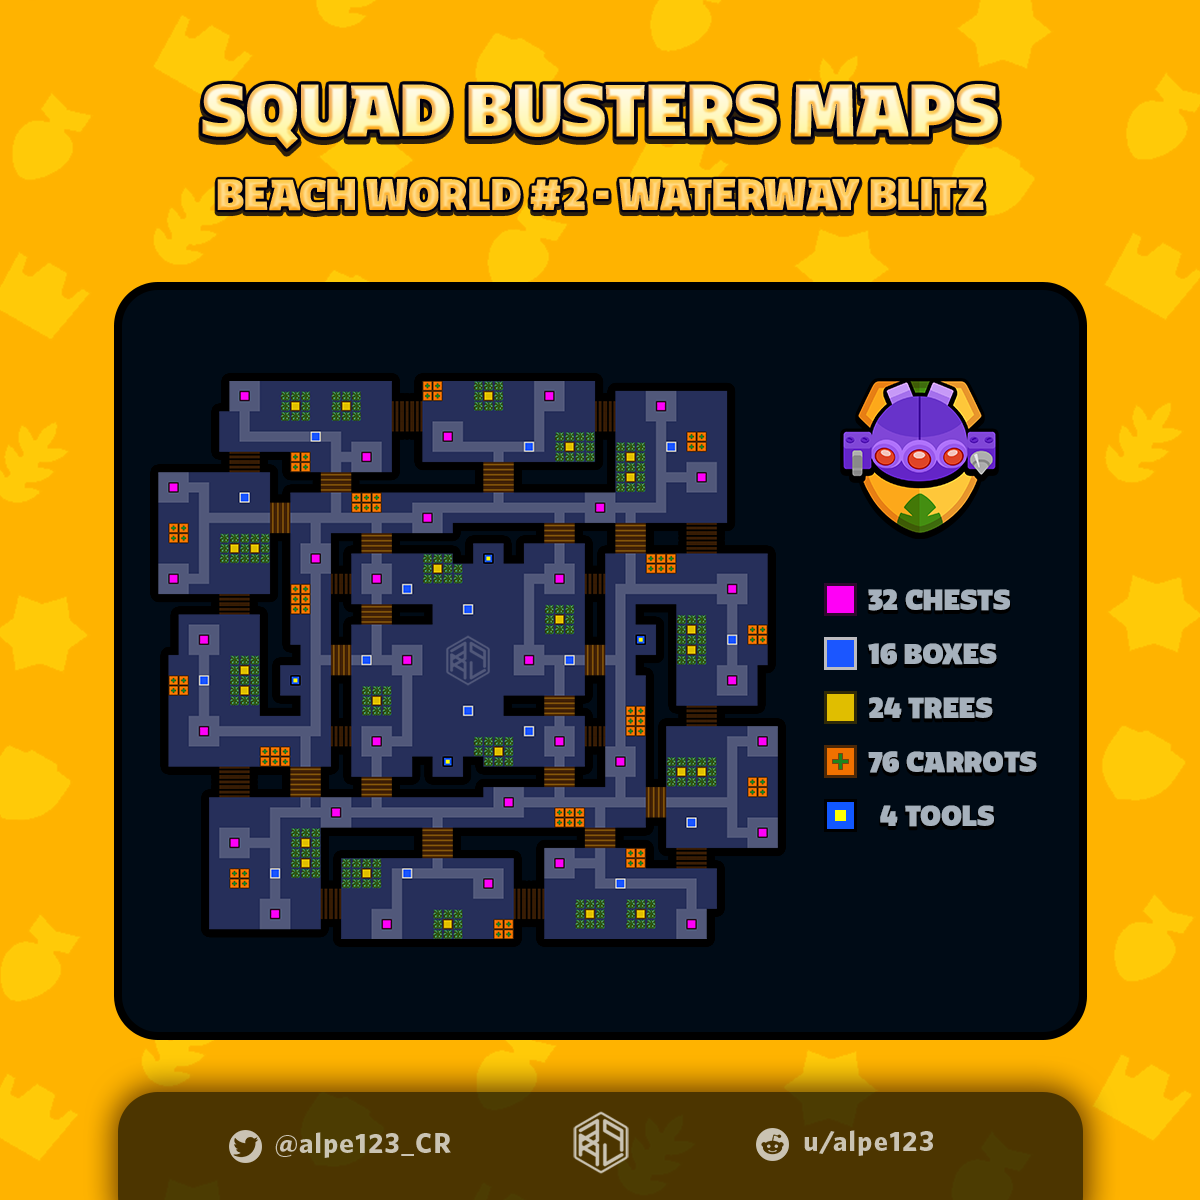
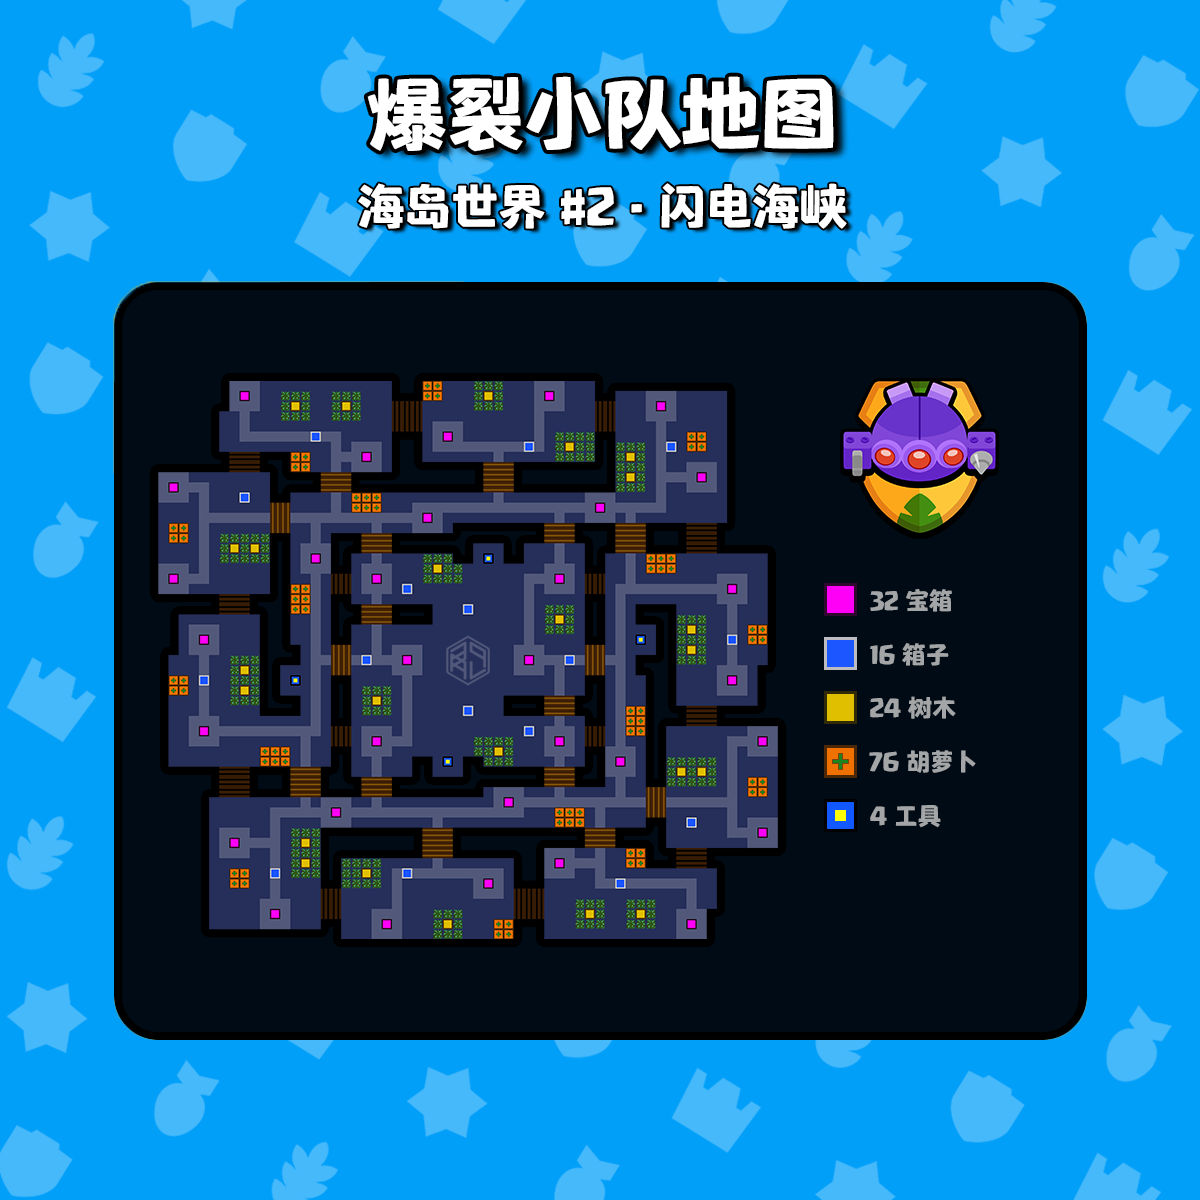
s

diff --git a/docs/sb/troops_cards.md b/docs/sb/troops_cards.md
@@ -1,141 +1,140 @@
 ---
-outline: understand your surroundings
+outline: 理解你的周围环境
 ---
 
-# Squad Busters Troops
+# 爆裂小队角色
 
-This is a list of all the characters available for your squad, sorted by DPS in descending order.
+这是一个按照DPS降序排列的、可供你的小队选择的角色列表。
 
 > [!NOTE]
-> DPS is important, but just a factor in the strength of a unit. This doesn't include very relevant details like range, area damage, abilities...
+> DPS很重要，但只是一个单位强度的因素。这不包括诸如射程、范围伤害、技能等非常相关的细节...
+
+____
+
+以下每个部队卡片以以下方式展示基本属性：
+
+![部队卡片演示](/assets/sb_character_card_demo.png)
+
+- **[HP] 生命值**：部队的健康值。
+- **[DPS] 每秒伤害**：部队在一秒内平均造成的伤害。
+- **[HT] 攻击时间**：每次攻击所需的平均时间。
+- **[DPH] 每次攻击伤害**：每次攻击造成的伤害。
 
 ____
 
 
-Each of the following troop cards display basic stats in the following way:
+## 1. 蛟龙母鸡
 
-![Troop Card Demo](/assets/sb_character_card_demo.png)
+![蛟龙母鸡](/assets/sb_character_card_1_mega-chicken.png)
 
-- **[HP] Hit Points**: health of a troop.
-- **[DPS] Damage Per Second**: average damage dealt by a troop in a single second.
-- **[HT] Hit Time**: average time needed for each attack.
-- **[DPH] Damage Per Hit**: damage dealt with each attack.
+## 2. 虎王普里莫
 
-____
+![虎王普里莫](/assets/sb_character_card_1_mega-el-primo.png)
 
+## 3. 潘妮
 
-## 1. Mega Chicken
+![潘妮](/assets/sb_character_card_1_penny.png)
 
-![Mega Chicken](/assets/sb_character_card_1_mega-chicken.png)
+## 4. 女巫
 
-## 2. Mega El Primo
+![女巫](/assets/sb_character_card_1_witch.png)
 
-![Mega El Primo](/assets/sb_character_card_1_mega-el-primo.png)
+## 5. 柯尔特
 
-## 3. Penny
+![柯尔特](/assets/sb_character_card_1_colt.png)
 
-![Penny](/assets/sb_character_card_1_penny.png)
+## 6. 贝亚
 
-## 4. Witch
+![贝亚](/assets/sb_character_card_1_bea.png)
 
-![Witch](/assets/sb_character_card_1_witch.png)
+## 7. 麦克斯
 
-## 5. Colt
+![麦克斯](/assets/sb_character_card_1_max.png)
 
-![Colt](/assets/sb_character_card_1_colt.png)
+## 8. 母鸡
 
-## 6. Bea
+![母鸡](/assets/sb_character_card_1_chicken.png)
 
-![Bea](/assets/sb_character_card_1_bea.png)
+## 9. 莫提斯
 
-## 7. Max
+![莫提斯](/assets/sb_character_card_1_mortis.png)
 
-![Max](/assets/sb_character_card_1_max.png)
+## 10. 帕姆
 
-## 8. Chicken
+![帕姆](/assets/sb_character_card_1_pam.png)
 
-![Chicken](/assets/sb_character_card_1_chicken.png)
+## 11. 哥布林
 
-## 9. Mortis
+![哥布林](/assets/sb_character_card_1_goblin.png)
 
-![Mortis](/assets/sb_character_card_1_mortis.png)
+## 12. 弓箭女皇
 
-## 10. Pam
+![弓箭女皇](/assets/sb_character_card_1_archer-queen.png)
 
-![Pam](/assets/sb_character_card_1_pam.png)
+## 13. 野猪骑士
 
-## 11. Goblin
+![野猪骑士](/assets/sb_character_card_1_hog-rider.png)
 
-![Goblin](/assets/sb_character_card_1_goblin.png)
+## 14. 雪莉
 
-## 12. Archer Queen
+![雪莉](/assets/sb_character_card_1_shelly.png)
 
-![Archer Queen](/assets/sb_character_card_1_archer-queen.png)
+## 15. 野蛮人之王
 
-## 13. Hog Rider
+![野蛮人之王](/assets/sb_character_card_1_barbarian-king.png)
 
-![Hog Rider](/assets/sb_character_card_1_hog-rider.png)
+## 16. 野蛮人
 
-## 14. Shelly
+![野蛮人](/assets/sb_character_card_1_barbarian.png)
 
-![Shelly](/assets/sb_character_card_1_shelly.png)
+## 17. 阿渤
 
-## 15. Barbarian King
+![阿渤](/assets/sb_character_card_1_bo.png)
 
-![Barbarian King](/assets/sb_character_card_1_barbarian-king.png)
+## 18. 重机枪手
 
-## 16. Barbarian
+![重机枪手](/assets/sb_character_card_1_heavy.png)
 
-![Barbarian](/assets/sb_character_card_1_barbarian.png)
+## 19. 医师
 
-## 17. Bo
+![医师](/assets/sb_character_card_1_medic.png)
 
-![Bo](/assets/sb_character_card_1_bo.png)
+## 20. 坦克驾驶员
 
-## 18. Heavy
+![坦克驾驶员](/assets/sb_character_card_1_tank-girl.png)
 
-![Heavy](/assets/sb_character_card_1_heavy.png)
+## 21. 梅维斯
 
-## 19. Medic
+![梅维斯](/assets/sb_character_card_1_mavis.png)
 
-![Medic](/assets/sb_character_card_1_medic.png)
+## 22. 法师
 
-## 20. Tank Girl
+![法师](/assets/sb_character_card_1_wizard.png)
 
-![Tank Girl](/assets/sb_character_card_1_tank-girl.png)
+## 23. 战斗天使
 
-## 21. Mavis
+![战斗天使](/assets/sb_character_card_1_battle-healer.png)
 
-![Mavis](/assets/sb_character_card_1_mavis.png)
+## 24. 国王
 
-## 22. Wizard
+![国王](/assets/sb_character_card_1_royale-king.png)
 
-![Wizard](/assets/sb_character_card_1_wizard.png)
+## 25. 普利莫
 
-## 23. Battle Healer
+![普利莫](/assets/sb_character_card_1_el-primo.png)
 
-![Battle Healer](/assets/sb_character_card_1_battle-healer.png)
+## 26. 格雷格
 
-## 24. Royale King
+![格雷格](/assets/sb_character_card_1_greg.png)
 
-![Royale King](/assets/sb_character_card_1_royale-king.png)
+## 27. 商人
 
-## 25. El Primo
+![商人](/assets/sb_character_card_1_trader.png)
 
-![El Primo](/assets/sb_character_card_1_el-primo.png)
+## 28. 妮塔
 
-## 26. Greg
+![妮塔](/assets/sb_character_card_1_nita.png)
 
-![Greg](/assets/sb_character_card_1_greg.png)
+## 29. 爆破麦克
 
-## 27. Trader
-
-![Trader](/assets/sb_character_card_1_trader.png)
-
-## 28. Nita
-
-![Nita](/assets/sb_character_card_1_nita.png)
-
-## 29. Dynamike
-
-![Dynamike](/assets/sb_character_card_1_dynamike.png)
+![爆破麦克](/assets/sb_character_card_1_dynamike.png)

diff --git a/docs/sb/troops_fusion_multipliers.md b/docs/sb/troops_fusion_multipliers.md
@@ -57,33 +57,33 @@ outline: 理解你的周围环境
 
 |   | Troop | Fusion HP | Fusion DPS | 
 | -- | -- | -- | -- |
-| <img src="../assets/sb_emote_witch.png"  width="40" height="40" /> | Witch | 3.50x | 2.10x |
-| <img src="../assets/sb_emote_max.png"  width="40" height="40" /> | Max | 3.50x | 2.10x |
-| <img src="../assets/sb_emote_mortis.png"  width="40" height="40" /> | Mortis | 3.50x | 2.10x |
-| <img src="../assets/sb_emote_archer-queen.png"  width="40" height="40" /> | Archer Queen | 3.50x | 2.10x |
-| <img src="../assets/sb_emote_barbarian-king.png"  width="40" height="40" /> | Barbarian King | 3.50x | 2.10x |
-| <img src="../assets/sb_emote_tank-girl.png"  width="40" height="40" /> | Tank Girl | 3.50x | 2.10x |
-| <img src="../assets/sb_emote_battle-healer.png"  width="40" height="40" /> | Battle Healer | 3.50x | 2.10x |
-| <img src="../assets/sb_emote_royale-king.png"  width="40" height="40" /> | Royale King | 3.50x | 2.10x |
-| <img src="../assets/sb_emote_penny.png"  width="40" height="40" /> | Penny | 3.50x | 2.05x |
-| <img src="../assets/sb_emote_bea.png"  width="40" height="40" /> | Bea | 3.50x | 2.05x |
-| <img src="../assets/sb_emote_pam.png"  width="40" height="40" /> | Pam | 3.50x | 2.05x |
-| <img src="../assets/sb_emote_hog-rider.png"  width="40" height="40" /> | Hog Rider | 3.50x | 2.05x |
-| <img src="../assets/sb_emote_medic.png"  width="40" height="40" /> | Medic | 3.50x | 2.05x |
-| <img src="../assets/sb_emote_wizard.png"  width="40" height="40" /> | Wizard | 3.50x | 2.05x |
-| <img src="../assets/sb_emote_nita.png"  width="40" height="40" /> | Nita | 3.50x | 2.05x |
-| <img src="../assets/sb_emote_dynamike.png"  width="40" height="40" /> | Dynamike | 3.50x | 2.05x |
-| <img src="../assets/sb_emote_colt.png"  width="40" height="40" /> | Colt | 3.50x | 2.00x |
-| <img src="../assets/sb_emote_chicken.png"  width="40" height="40" /> | Chicken | 3.50x | 2.00x |
-| <img src="../assets/sb_emote_goblin.png"  width="40" height="40" /> | Goblin | 3.50x | 2.00x |
-| <img src="../assets/sb_emote_shelly.png"  width="40" height="40" /> | Shelly | 3.50x | 2.00x |
-| <img src="../assets/sb_emote_barbarian.png"  width="40" height="40" /> | Barbarian | 3.50x | 2.00x |
-| <img src="../assets/sb_emote_bo.png"  width="40" height="40" /> | Bo | 3.50x | 2.00x |
-| <img src="../assets/sb_emote_heavy.png"  width="40" height="40" /> | Heavy | 3.50x | 2.00x |
-| <img src="../assets/sb_emote_mavis.png"  width="40" height="40" /> | Mavis | 3.50x | 2.00x |
-| <img src="../assets/sb_emote_el-primo.png"  width="40" height="40" /> | El Primo | 3.50x | 2.00x |
-| <img src="../assets/sb_emote_greg.png"  width="40" height="40" /> | Greg | 3.50x | 2.00x |
-| <img src="../assets/sb_emote_trader.png"  width="40" height="40" /> | Trader | 3.50x | 2.00x |
+| <img src="../assets/sb_emote_witch.png"  width="40" height="40" /> | 女巫 | 3.50x | 2.10x |
+| <img src="../assets/sb_emote_max.png"  width="40" height="40" /> | 麦克斯 | 3.50x | 2.10x |
+| <img src="../assets/sb_emote_mortis.png"  width="40" height="40" /> | 莫提斯 | 3.50x | 2.10x |
+| <img src="../assets/sb_emote_archer-queen.png"  width="40" height="40" /> | 弓箭女皇 | 3.50x | 2.10x |
+| <img src="../assets/sb_emote_barbarian-king.png"  width="40" height="40" /> | 野蛮人之王 | 3.50x | 2.10x |
+| <img src="../assets/sb_emote_tank-girl.png"  width="40" height="40" /> | 坦克驾驶员 | 3.50x | 2.10x |
+| <img src="../assets/sb_emote_battle-healer.png"  width="40" height="40" /> | 战斗天使 | 3.50x | 2.10x |
+| <img src="../assets/sb_emote_royale-king.png"  width="40" height="40" /> | 国王 | 3.50x | 2.10x |
+| <img src="../assets/sb_emote_penny.png"  width="40" height="40" /> | 潘妮 | 3.50x | 2.05x |
+| <img src="../assets/sb_emote_bea.png"  width="40" height="40" /> | 贝亚 | 3.50x | 2.05x |
+| <img src="../assets/sb_emote_pam.png"  width="40" height="40" /> | 帕姆 | 3.50x | 2.05x |
+| <img src="../assets/sb_emote_hog-rider.png"  width="40" height="40" /> | 野猪骑士 | 3.50x | 2.05x |
+| <img src="../assets/sb_emote_medic.png"  width="40" height="40" /> | 医师 | 3.50x | 2.05x |
+| <img src="../assets/sb_emote_wizard.png"  width="40" height="40" /> | 法师 | 3.50x | 2.05x |
+| <img src="../assets/sb_emote_nita.png"  width="40" height="40" /> | 妮塔 | 3.50x | 2.05x |
+| <img src="../assets/sb_emote_dynamike.png"  width="40" height="40" /> | 爆破麦克 | 3.50x | 2.05x |
+| <img src="../assets/sb_emote_colt.png"  width="40" height="40" /> | 柯尔特 | 3.50x | 2.00x |
+| <img src="../assets/sb_emote_chicken.png"  width="40" height="40" /> | 母鸡 | 3.50x | 2.00x |
+| <img src="../assets/sb_emote_goblin.png"  width="40" height="40" /> | 哥布林 | 3.50x | 2.00x |
+| <img src="../assets/sb_emote_shelly.png"  width="40" height="40" /> | 雪莉 | 3.50x | 2.00x |
+| <img src="../assets/sb_emote_barbarian.png"  width="40" height="40" /> | 野蛮人 | 3.50x | 2.00x |
+| <img src="../assets/sb_emote_bo.png"  width="40" height="40" /> | 阿渤 | 3.50x | 2.00x |
+| <img src="../assets/sb_emote_heavy.png"  width="40" height="40" /> | 重机枪手 | 3.50x | 2.00x |
+| <img src="../assets/sb_emote_mavis.png"  width="40" height="40" /> | 梅维斯 | 3.50x | 2.00x |
+| <img src="../assets/sb_emote_el-primo.png"  width="40" height="40" /> | 普利莫 | 3.50x | 2.00x |
+| <img src="../assets/sb_emote_greg.png"  width="40" height="40" /> | 格雷格 | 3.50x | 2.00x |
+| <img src="../assets/sb_emote_trader.png"  width="40" height="40" /> | 商人 | 3.50x | 2.00x |
 
 </div>
 

diff --git a/docs/sb/maps_w3.md b/docs/sb/maps_w3.md
@@ -2,7 +2,7 @@
 outline: 了解你的周围环境
 ---
 
-# 皇家世界
+# 皇室世界
 
 [[toc]]
 
@@ -10,12 +10,12 @@ outline: 了解你的周围环境
 
 ## 试炼之地
 
-![皇家世界 试炼之地](/assets/sb_maps_1_r_1.png)
+![皇室世界 试炼之地](/assets/sb_maps_1_r_1.png)
 
 ## 皇室斗技场
 
-![皇家世界 皇室斗技场](/assets/sb_maps_1_r_2.png)
+![皇室世界 斗技场](/assets/sb_maps_1_r_2.png)
 
 ## 钢铁手套
 
-![皇家世界 钢铁手套](/assets/sb_maps_1_r_3.png)
+![皇室世界 钢铁手套](/assets/sb_maps_1_r_3.png)

diff --git a/docs/sb/troops_by_dps.md b/docs/sb/troops_by_dps.md
@@ -1,4 +1,4 @@
-# Troops Sorted By DPS
+# 按秒伤排序
 
 <style>
     .heatMapTDPS {
@@ -44,7 +44,7 @@
 
 <div class="heatMapTDPS">
 
-|   | Troop | HP | DPS | 
+|   | 角色 | 血量 | 秒伤 | 
 | -- | -- | -- | -- |
 | <img src="../assets/sb_emote_mega-chicken.png"  width="40" height="40" /> | 蛟龙母鸡 | 8000 | 273 |
 | <img src="../assets/sb_emote_mega-el-primo.png"  width="40" height="40" /> | 虎王普里莫 | 11000 | 237 |

diff --git a/docs/sb/troops_by_hp.md b/docs/sb/troops_by_hp.md
@@ -1,4 +1,4 @@
-# Troops Sorted By HP
+# 按血量排序
 
 <style>
     .heatMapTHP {
@@ -44,7 +44,7 @@
 
 <div class="heatMapTHP">
 
-|   | Troop | HP | DPS | 
+|   | 部队 | 血量 | 秒伤 | 
 | -- | -- | -- | -- |
 | <img src="../assets/sb_emote_mega-el-primo.png"  width="40" height="40" /> | 虎王普里莫 | 11000 | 237 |
 | <img src="../assets/sb_emote_mega-chicken.png"  width="40" height="40" /> | 蛟龙母鸡 | 8000 | 273 |
